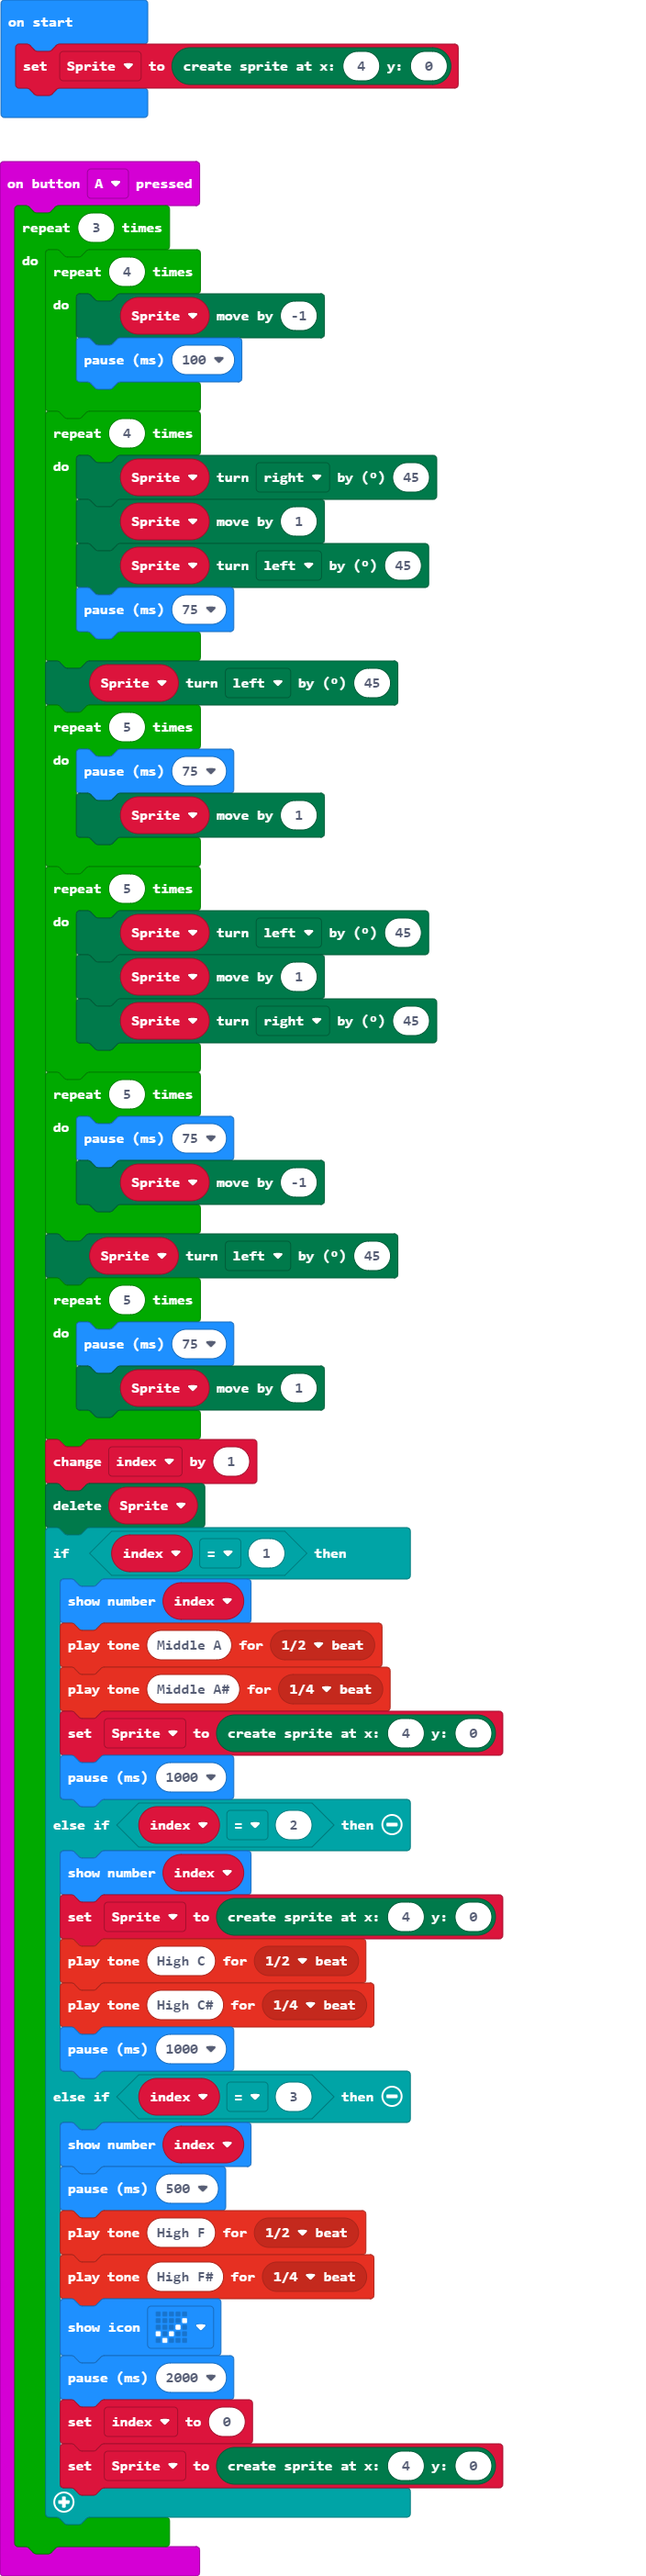
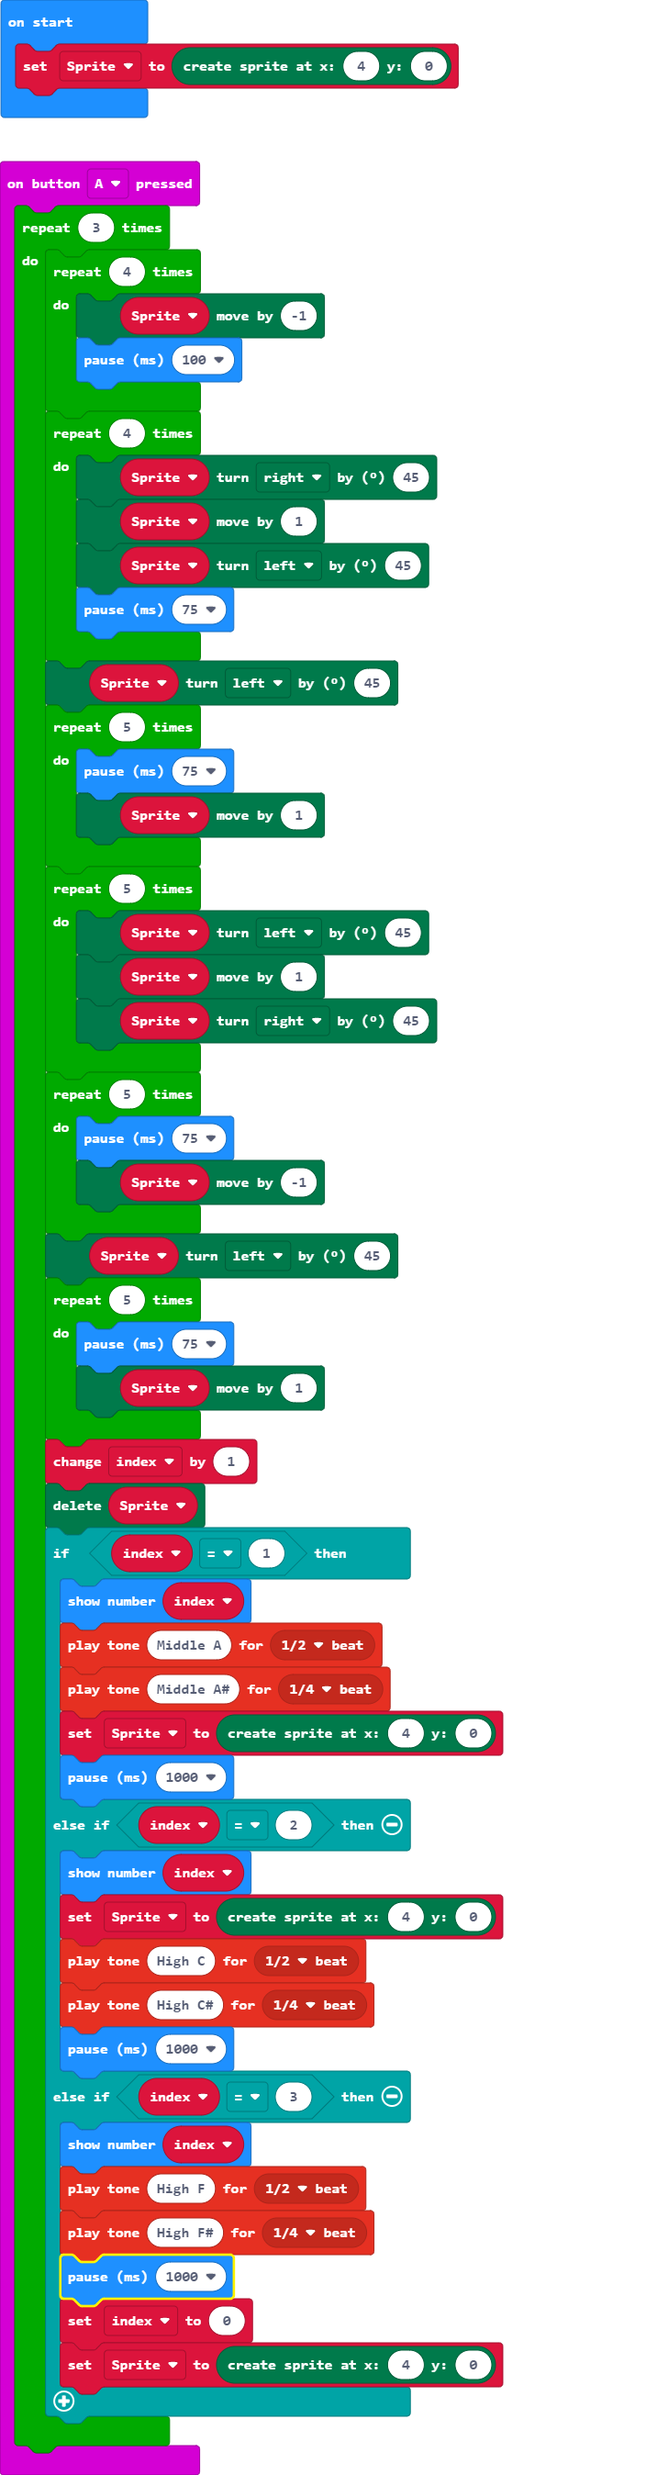
Update main.blocks, main.ts

diff --git a/main.ts b/main.ts
@@ -45,11 +45,9 @@ input.onButtonPressed(Button.A, function () {
             basic.pause(1000)
         } else if (index == 3) {
             basic.showNumber(index)
-            basic.pause(500)
             music.playTone(698, music.beat(BeatFraction.Half))
             music.playTone(740, music.beat(BeatFraction.Quarter))
-            basic.showIcon(IconNames.Yes)
-            basic.pause(2000)
+            basic.pause(1000)
             index = 0
             Sprite = game.createSprite(4, 0)
         }
